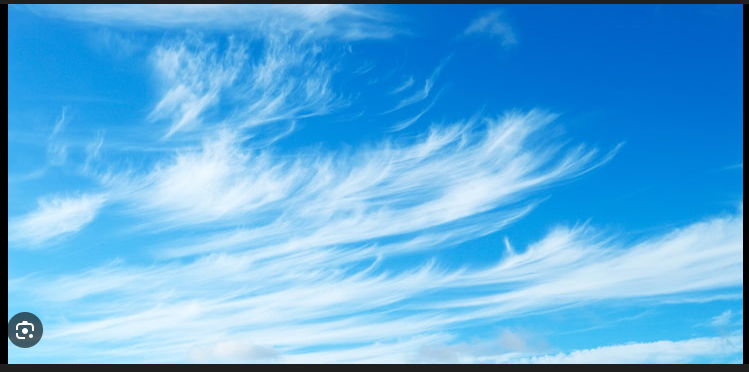
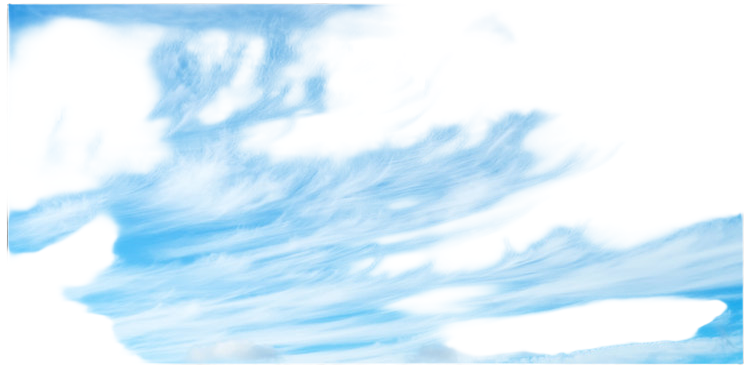
Layer clouds over the sky gradient background
Replace the full-screen cloud image background with a LinearGradient and layer the clouds.png image as an overlay with 70% opacity.

Replit-Commit-Author: Agent
Replit-Commit-Session-Id: 7a27ba1b-0af0-4c3c-9dbc-9ef0c34c145d
Replit-Commit-Checkpoint-Type: full_checkpoint
Replit-Commit-Event-Id: 8a512bf8-09e1-4890-99ee-86bc8b3d0574
Replit-Commit-Screenshot-Url: https://storage.googleapis.com/screenshot-production-us-central1/e3da98e5-f0fd-4c08-ad8e-ae0b3aa6f787/7a27ba1b-0af0-4c3c-9dbc-9ef0c34c145d/Yk0XCYx
Replit-Helium-Checkpoint-Created: true

diff --git a/artifacts/senior-shield/components/DayNightBackground.tsx b/artifacts/senior-shield/components/DayNightBackground.tsx
@@ -95,9 +95,15 @@ export default function DayNightBackground({
   return (
     <View style={styles.container}>
       <Reanimated.View style={[styles.background, dayStyle]}>
+        <LinearGradient
+          colors={["#87CEEB", "#B8E4F9", "#D4EFFC"]}
+          start={{ x: 0, y: 0 }}
+          end={{ x: 0, y: 1 }}
+          style={StyleSheet.absoluteFillObject}
+        />
         <Image
           source={require("../public/clouds.png")}
-          style={StyleSheet.absoluteFillObject}
+          style={[StyleSheet.absoluteFillObject, { opacity: 0.7 }]}
           resizeMode="cover"
         />
       </Reanimated.View>
